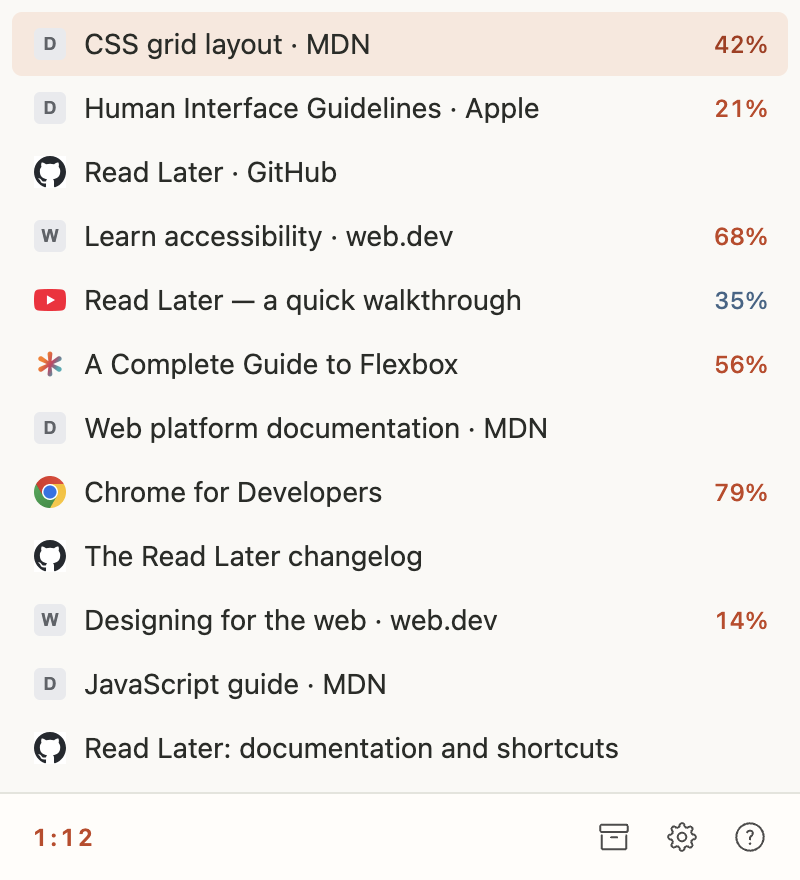
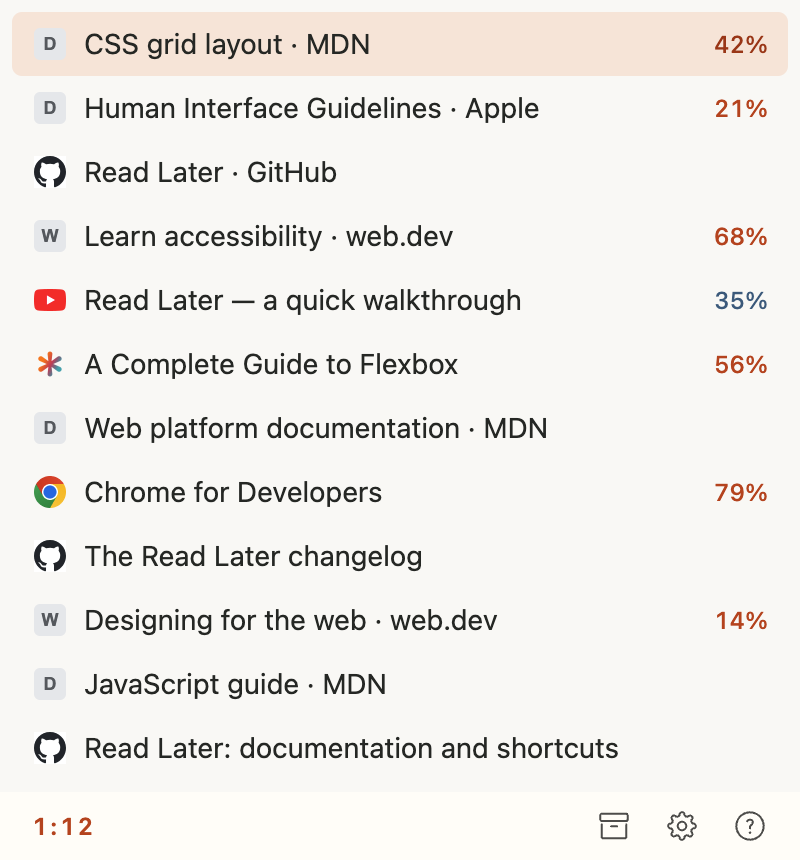
style: slim popup status bar and refresh screenshots
Drop the status bar's top border and reduce its height from 44px to
34px. Recapture landing screenshots at 400x430 and update the image
dimensions in index.html and the capture instructions.

diff --git a/index.html b/index.html
@@ -66,7 +66,7 @@
             </div>
           </figcaption>
           <div class="product-crop">
-            <img id="product-screenshot" src="landing/images/read-later-light.png" width="800" height="880" fetchpriority="high" alt="Read Later in light appearance, showing saved pages, orange reading progress, blue video progress, and Archive, Options, and Help controls.">
+            <img id="product-screenshot" src="landing/images/read-later-light.png" width="800" height="860" fetchpriority="high" alt="Read Later in light appearance, showing saved pages, orange reading progress, blue video progress, and Archive, Options, and Help controls.">
           </div>
           <div class="product-caption">
             <span>Extension UI · example reads</span>

diff --git a/popup/status-bar/status-bar.css b/popup/status-bar/status-bar.css
@@ -4,9 +4,8 @@
     gap: 4px;
     box-sizing: border-box;
     list-style-type: none;
-    padding: 6px 10px 6px 16px;
-    height: 44px;
-    border-top: 1px solid var(--border);
+    padding: 2px 10px 2px 16px;
+    height: 34px;
     background: var(--surface);
     width: 100%;
 }

diff --git a/landing/images/README.md b/landing/images/README.md
@@ -6,7 +6,7 @@ example saved pages and isolated Chrome storage. They contain no personal
 reading-list data. The fixture loads the real popup HTML, CSS, and scripts.
 
 To refresh them, serve the repository root, open `/tests/product-preview.html`,
-and capture a 400 × 440 viewport at 2× device pixel ratio with the browser’s
+and capture a 400 × 430 viewport at 2× device pixel ratio with the browser’s
 color scheme set to light and then dark. Verify all icons have loaded and the
 whole popup fits before capturing. If the sample content or popup dimensions
 change, update the viewport and the image dimensions in `index.html` too.
